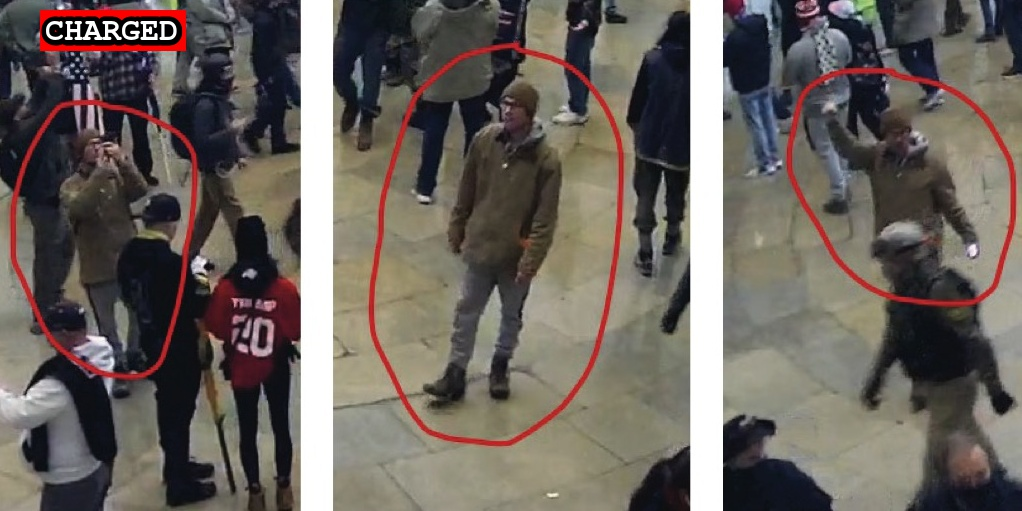
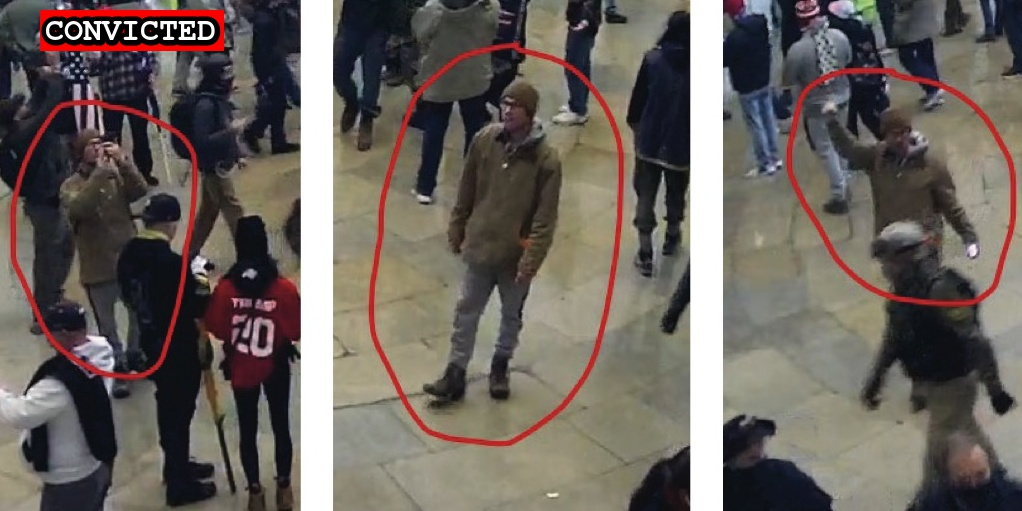
Stotts conviction

Changed region(s): [[0.0607, 0.0, 0.2427, 0.1174]]

diff --git a/docs/_suspects/jordan-stotts.md b/docs/_suspects/jordan-stotts.md
@@ -3,13 +3,13 @@ name: Jordan Stotts
 lastName: Stotts
 aka:
 residence: Minnesota
-status: Charged
+status: Convicted
 date: 2021-03-16
 charged: 2021-03-16
 indicted:
-convicted: 
-sentenced: 
-dismissed: 
+convicted: 2021-07-28
+sentenced:
+dismissed:
 deceased:
 age: 31
 occupation:
@@ -29,6 +29,11 @@ author: seditiontrack
 layout: suspect
 published: true
 caseNumber: 1:21-cr-272
+charges:
+  - code: '18 USC § 5104(e)(2)(G)'
+    title: 'Parading, Demonstrating or Picketing in a Capitol Building'
+    url: 'https://www.law.cornell.edu/uscode/text/40/5104'
+    felony: false
 ---
 - [News Report](https://www.startribune.com/prosecutors-charge-minnesota-man-in-capitol-siege/600036333/)
 - [Statement of Facts](https://www.justice.gov/usao-dc/case-multi-defendant/file/1377866/download)

diff --git a/docs/_suspects/david-mish.md b/docs/_suspects/david-mish.md
@@ -8,8 +8,8 @@ date: 2021-01-15
 charged: 2021-01-15
 indicted:
 convicted: 2021-08-30
-sentenced: 
-dismissed: 
+sentenced:
+dismissed:
 deceased:
 age: 42
 occupation:
@@ -29,6 +29,11 @@ author: seditiontrack
 layout: suspect
 published: true
 caseNumber: 1:21-cr-112
+charges:
+  - code: '18 USC § 5104(e)(2)(G)'
+    title: 'Parading, Demonstrating or Picketing in a Capitol Building'
+    url: 'https://www.law.cornell.edu/uscode/text/40/5104'
+    felony: false
 ---
 - [News Report](https://www.jsonline.com/story/news/local/2021/01/15/david-charles-mish-west-allis-wisconsin-charged-capitol-riot/4186655001/gs)
 - [Complaint](https://www.justice.gov/opa/page/file/1355491/download)
